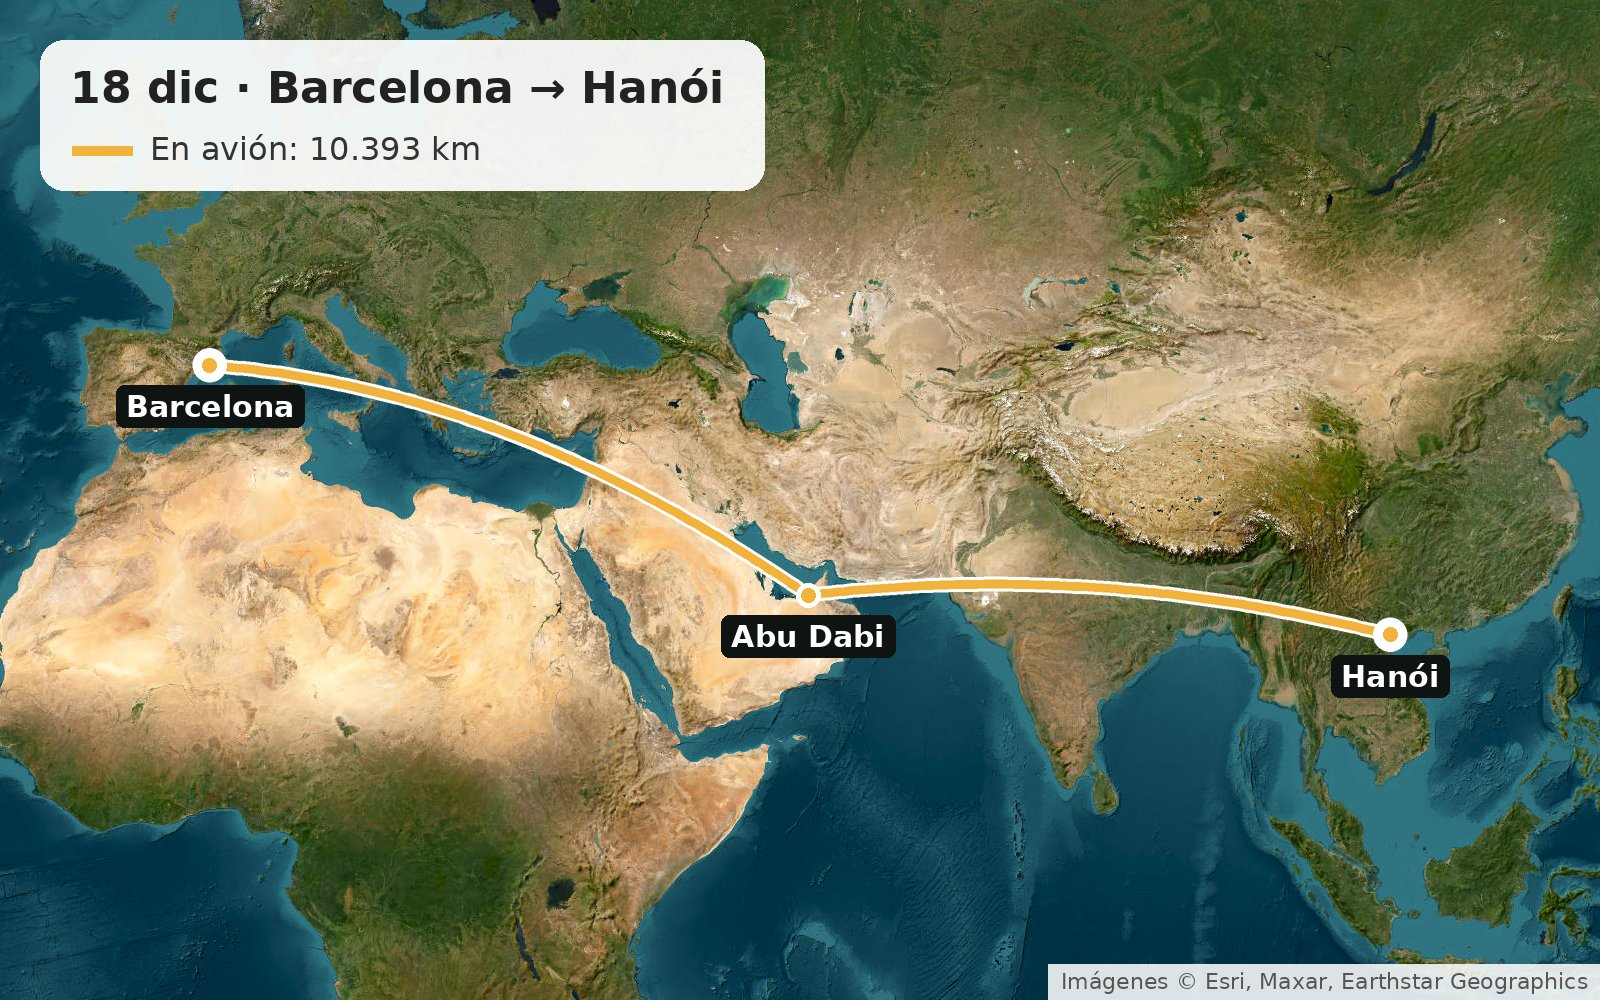
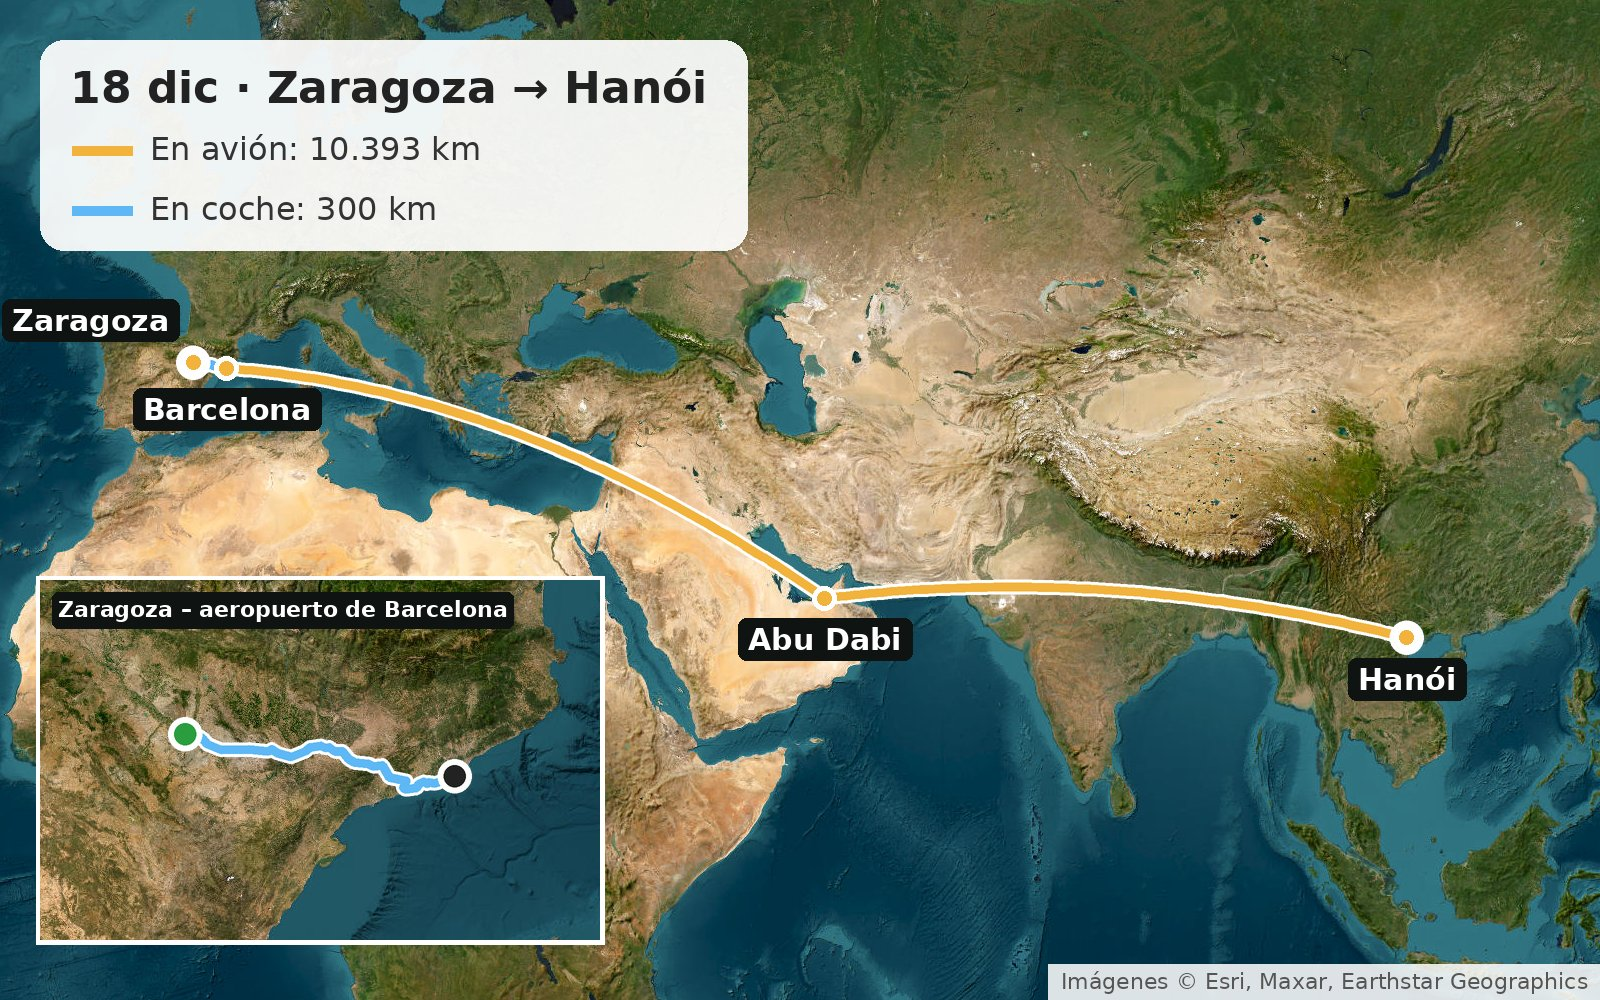
Trayectos en coche Zaragoza–aeropuerto de Barcelona (ida y vuelta) con recuadro ampliado
Claude-Session: https://claude.ai/code/session_015kyqfPUKYFhkmAbixkqA4C

diff --git a/estadisticas/index.html b/estadisticas/index.html
@@ -34,7 +34,7 @@
 <section class="envoltura estad">
   <div class="estad__destacados">
     <div class="cifra cifra--acento">
-      <span class="cifra__num">10.393</span>
+      <span class="cifra__num">10.693</span>
       <span class="cifra__txt">km recorridos en total</span>
     </div>
     <div class="cifra">
@@ -63,10 +63,10 @@
       <span class="barra__valor">0,0 km</span>
     </li>
     
-    <li class="barra barra--vacia">
+    <li class="barra">
       <span class="barra__nombre">En coche</span>
-      <span class="barra__pista"><span class="barra__relleno barra__relleno--coche" style="width:0.0%"></span></span>
-      <span class="barra__valor">0,0 km</span>
+      <span class="barra__pista"><span class="barra__relleno barra__relleno--coche" style="width:2.9%"></span></span>
+      <span class="barra__valor">300,0 km</span>
     </li>
     
     <li class="barra barra--vacia">
@@ -95,7 +95,7 @@
     
   </ul>
   <p class="estad__usados">
-    Medios de transporte usados: en avión.
+    Medios de transporte usados: en coche, en avión.
     
   </p>
 
@@ -133,7 +133,7 @@
         
         <tr>
           <td><a href="../dias/01-salida-desde-barcelona/">1 · Salida desde Barcelona</a></td>
-          <td>10393,0 km</td>
+          <td>10693,0 km</td>
           <td>0</td>
         </tr>
         

diff --git a/index.html b/index.html
@@ -187,7 +187,7 @@
     <li class="casilla casilla--cifras">
       <a href="estadisticas/" aria-label="Estadísticas del viaje">
         <span class="cifras__titulo">El viaje en números</span>
-        <span class="cifras__sub">10.393 km →</span>
+        <span class="cifras__sub">10.693 km →</span>
       </a>
     </li>
   </ol>

diff --git a/dias/01-salida-desde-barcelona/index.html b/dias/01-salida-desde-barcelona/index.html
@@ -46,6 +46,8 @@
   
   <div class="datos">
     
+    <div class="dato"><i class="dato__punto dato__punto--coche"></i>En coche <strong>300,0 km</strong></div>
+    
     <div class="dato"><i class="dato__punto dato__punto--avion"></i>En avión <strong>10393,0 km</strong></div>
     
     

diff --git a/tools/vuelo.py b/tools/vuelo.py
@@ -2,6 +2,8 @@
 """Dibuja el mapa de un vuelo (arcos de círculo máximo) y su ruta.geojson.
 
 Uso: python3 tools/vuelo.py CARPETA_DEL_DIA BCN AUH HAN "Título"
+     [--antes tools/rutas/x.json] [--despues tools/rutas/x.json] [--invertir]
+Las rutas por carretera (--antes/--despues) se dibujan en otro color y suman sus km.
 """
 import json, math, sys
 from pathlib import Path
@@ -37,18 +39,35 @@ def arco(a, b, n=80):
     return pts
 
 
-def main(carpeta, codigos, titulo):
+def main(carpeta, codigos, titulo, antes=None, despues=None, invertir=False):
     carpeta = Path(carpeta)
     pos = [AEROPUERTOS[c][1:] for c in codigos]
     tramos = [arco(pos[i], pos[i + 1]) for i in range(len(pos) - 1)]
     km = sum(gc_km(pos[i], pos[i + 1]) for i in range(len(pos) - 1))
     nombres = ' → '.join(AEROPUERTOS[c][0] for c in codigos)
-    img = render([(t, '#F2B33D') for t in tramos], 'sat', titulo=titulo,
-                 leyenda=((f'En avión: {round(km):,} km'.replace(',', '.'), '#F2B33D'),),
-                 atrib='Imágenes © Esri, Maxar, Earthstar Geographics', pad=170)
+    segs = [(t, '#F2B33D') for t in tramos]
+    extra = []
+    for cual, f in (('antes', antes), ('despues', despues)):
+        if not f:
+            continue
+        r = json.loads(Path(f).read_text())
+        coords = [tuple(p) for p in r['coords']]
+        if invertir:
+            coords = coords[::-1]
+        extra.append((cual, r, coords))
+        if cual == 'antes':
+            segs.insert(0, (coords, '#5DB8F5'))
+        else:
+            segs.append((coords, '#5DB8F5'))
+    km_tierra = sum(r['km'] for _, r, _ in extra)
+    leyenda = [(f'En avión: {round(km):,} km'.replace(',', '.'), '#F2B33D')]
+    if extra:
+        leyenda.append((f'En coche: {km_tierra:,} km'.replace(',', '.'), '#5DB8F5'))
+    img = render(segs, 'sat', titulo=titulo, leyenda=tuple(leyenda),
+                 atrib='Imágenes © Esri, Maxar, Earthstar Geographics', pad=140)
     # Etiquetas de los aeropuertos
     W, H = img.size
-    allp = [p for t in tramos for p in t]
+    allp = [p for t, _ in segs for p in t]
     for z in range(18, 1, -1):
         xs, ys = zip(*[px(lo, la, z) for lo, la in allp])
         if max(xs) - min(xs) <= W - 340 and max(ys) - min(ys) <= H - 340:
@@ -56,24 +75,46 @@ def main(carpeta, codigos, titulo):
     x0, y0 = (max(xs) + min(xs)) / 2 - W / 2, (max(ys) + min(ys)) / 2 - H / 2
     d = ImageDraw.Draw(img)
     f = ImageFont.truetype('/usr/share/fonts/truetype/dejavu/DejaVuSans-Bold.ttf', 30)
-    for c, (lo, la) in zip(codigos, pos):
+    etiquetas = list(zip([AEROPUERTOS[c][0] for c in codigos], pos))
+    for cual, r, coords in extra:
+        ext = coords[0] if cual == 'antes' else coords[-1]
+        etiquetas.append(('Zaragoza', ext))
+    for t, (lo, la) in etiquetas:
         x, y = px(lo, la, z)
         x, y = x - x0, y - y0
         d.ellipse((x - 12, y - 12, x + 12, y + 12), fill='white')
         d.ellipse((x - 7, y - 7, x + 7, y + 7), fill='#F2B33D')
-        t = AEROPUERTOS[c][0]
         tw = d.textlength(t, font=f)
-        tx = min(max(x - tw / 2, 10), W - tw - 10)
-        d.rounded_rectangle((tx - 10, y + 20, tx + tw + 10, y + 62), 8, fill=(15, 20, 18))
-        d.text((tx, y + 24), t, font=f, fill='white')
+        if t == 'Zaragoza':   # encima y a la izquierda, para no pisar Barcelona
+            tx, ty = x - tw - 24, y - 64
+        else:
+            tx, ty = min(max(x - tw / 2, 10), W - tw - 10), y + 20
+        d.rounded_rectangle((tx - 10, ty, tx + tw + 10, ty + 42), 8, fill=(15, 20, 18))
+        d.text((tx, ty + 4), t, font=f, fill='white')
+    if extra:   # recuadro ampliado con el trayecto en coche
+        coords = extra[0][2]
+        ins = render([(coords, '#5DB8F5')], 'sat', W=560, H=360, pad=50)
+        d2 = ImageDraw.Draw(ins)
+        fi = ImageFont.truetype('/usr/share/fonts/truetype/dejavu/DejaVuSans-Bold.ttf', 22)
+        d2.rounded_rectangle((12, 12, 24 + d2.textlength('Zaragoza – aeropuerto de Barcelona', font=fi), 48), 6, fill=(15, 20, 18))
+        d2.text((18, 16), 'Zaragoza – aeropuerto de Barcelona', font=fi, fill='white')
+        bx, by = 40, H - 360 - 60
+        d.rectangle((bx - 4, by - 4, bx + 564, by + 364), fill='white')
+        img.paste(ins, (bx, by))
     img.save(carpeta / 'mapa.jpg', quality=85)
     gj = {'type': 'FeatureCollection', 'features': [
-        {'type': 'Feature', 'properties': {'modo': 'avion'},
-         'geometry': {'type': 'LineString', 'coordinates': [[round(a, 4), round(b, 4)] for a, b in t]}} for t in tramos]}
+        {'type': 'Feature', 'properties': {'modo': 'avion' if col == '#F2B33D' else 'coche'},
+         'geometry': {'type': 'LineString', 'coordinates': [[round(a, 4), round(b, 4)] for a, b in t]}}
+        for t, col in segs]}
     (carpeta / 'ruta.geojson').write_text(json.dumps(gj))
-    print(f'{nombres}: {km:.0f} km')
+    print(f'{nombres}: {km:.0f} km en avión, {km_tierra} km en coche')
     return km
 
 
 if __name__ == '__main__':
-    main(sys.argv[1], sys.argv[2:-1], sys.argv[-1])
+    import argparse
+    ap = argparse.ArgumentParser()
+    ap.add_argument('carpeta'); ap.add_argument('resto', nargs='+')
+    ap.add_argument('--antes'); ap.add_argument('--despues'); ap.add_argument('--invertir', action='store_true')
+    a = ap.parse_args()
+    main(a.carpeta, a.resto[:-1], a.resto[-1], a.antes, a.despues, a.invertir)

diff --git a/tools/mapa.py b/tools/mapa.py
@@ -37,12 +37,14 @@ def render(segs,estilo='hibrido',W=1600,H=1000,pad=140,titulo='',leyenda=(),atri
     F='/usr/share/fonts/truetype/dejavu/DejaVuSans.ttf'; FB='/usr/share/fonts/truetype/dejavu/DejaVuSans-Bold.ttf'
     fb,f,s=ImageFont.truetype(FB,44),ImageFont.truetype(F,32),ImageFont.truetype(F,22)
     ov=Image.new('RGBA',(W,H),(0,0,0,0)); d=ImageDraw.Draw(ov)
-    bw=max(d.textlength(titulo,font=fb),*[d.textlength(t,font=f)+80 for t,_ in leyenda])+70
-    d.rounded_rectangle((40,40,40+bw,40+90+60*len(leyenda)),24,fill=(255,255,255,235))
-    d.text((70,62),titulo,font=fb,fill='#222')
+    if titulo or leyenda:
+        bw=max(d.textlength(titulo,font=fb),*[d.textlength(t,font=f)+80 for t,_ in leyenda])+70
+        d.rounded_rectangle((40,40,40+bw,40+90+60*len(leyenda)),24,fill=(255,255,255,235))
+        d.text((70,62),titulo,font=fb,fill='#222')
     for i,(t,c) in enumerate(leyenda):
         y=150+60*i; d.line((72,y,132,y),fill=c,width=10); d.text((150,y-20),t,font=f,fill='#333')
-    w=d.textlength(atrib,font=s); d.rectangle((W-w-24,H-36,W,H),fill=(255,255,255,220)); d.text((W-w-12,H-32),atrib,font=s,fill='#555')
+    if atrib:
+        w=d.textlength(atrib,font=s); d.rectangle((W-w-24,H-36,W,H),fill=(255,255,255,220)); d.text((W-w-12,H-32),atrib,font=s,fill='#555')
     img.alpha_composite(ov); return img.convert('RGB')
 def km(p):
     return sum(math.hypot((c-a)*math.cos(math.radians(b))*111.32,(e-b)*110.57) for (a,b),(c,e) in zip(p,p[1:]))
